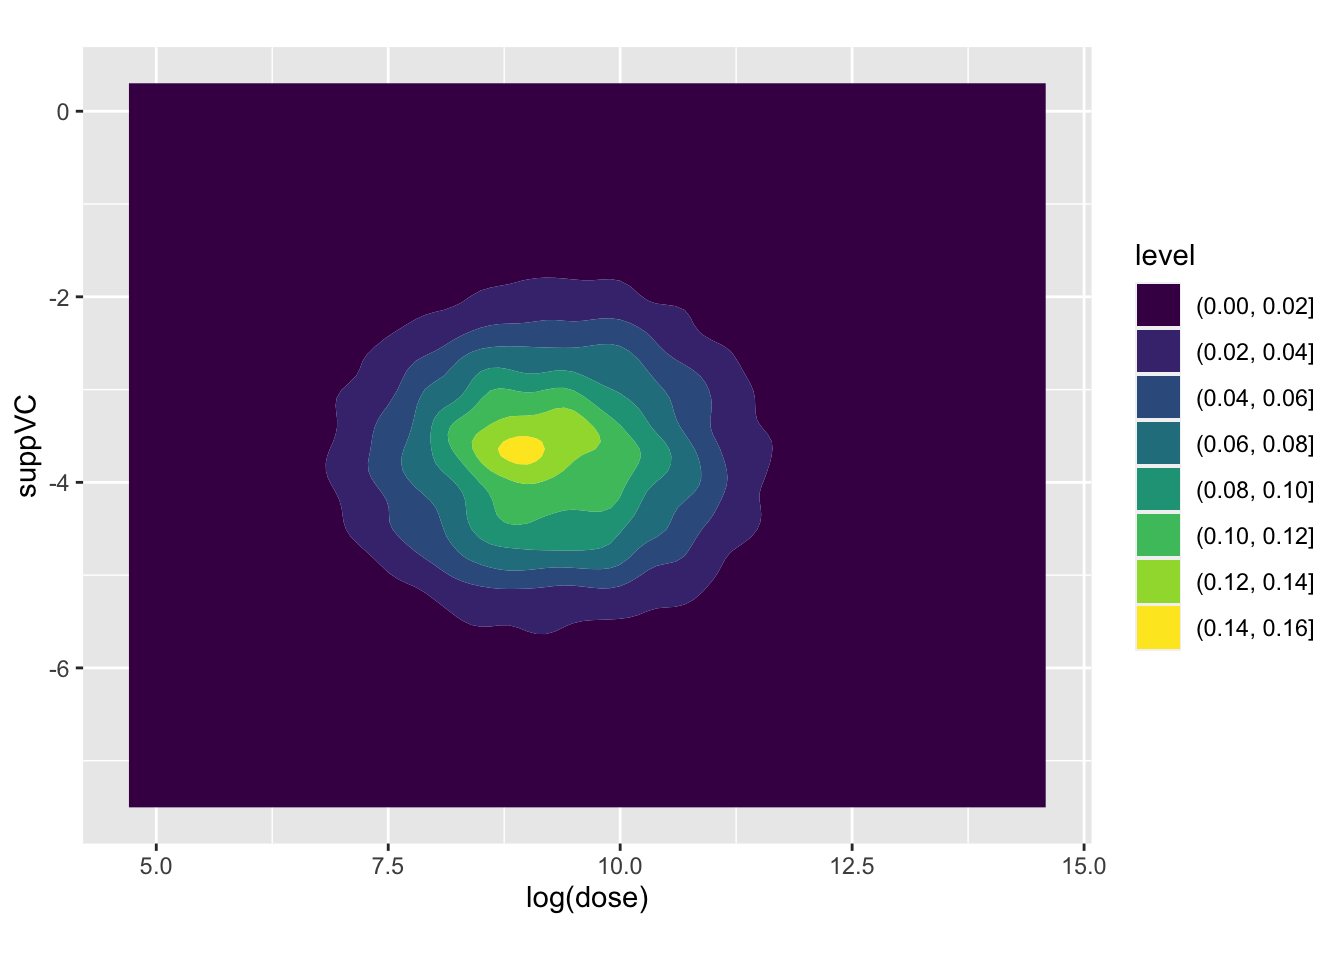
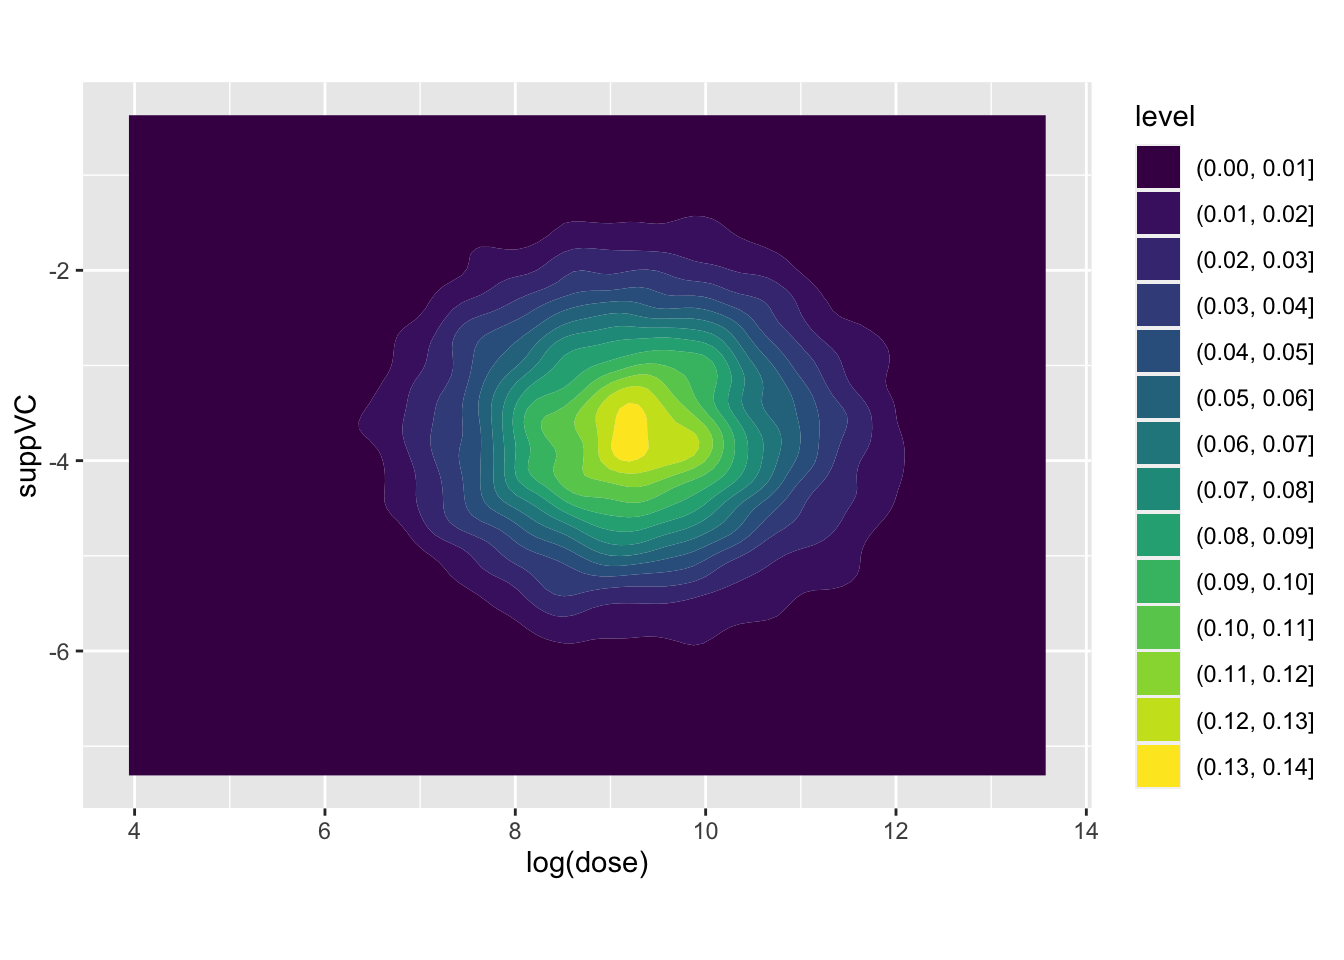
Built site for gh-pages

diff --git a/posts/glms/lms-are-glms-part-12/index.html b/posts/glms/lms-are-glms-part-12/index.html
@@ -430,12 +430,12 @@ Y_i \sim Norm(\theta_i, \sigma^2)
 </details>
 <div class="cell-output cell-output-stdout">
 <pre><code>     (Intercept) log(dose)    suppVC log(dose):suppVC
-[1,]    20.68855  8.918649 -2.791572         4.085721
-[2,]    21.03584  9.087500 -5.498812         3.944559
-[3,]    21.58485 11.707897 -6.394050         1.234645
-[4,]    20.54774  8.023190 -2.992465         4.354103
-[5,]    21.08885  9.010550 -4.647332         4.808531
-[6,]    21.25794  9.958011 -4.839740         2.408021</code></pre>
+[1,]    20.87538  9.689866 -2.836542         1.723545
+[2,]    19.43247  8.859462 -2.908695         4.902105
+[3,]    20.04414 10.951369 -2.337728         1.553765
+[4,]    20.08595  9.444338 -3.747288         4.100071
+[5,]    20.38512  7.122832 -2.729296         4.390524
+[6,]    20.26225 10.424484 -2.907097         1.458138</code></pre>
 </div>
 </div>
 <p>Let’s first look at each of these parameters individually:</p>
@@ -587,7 +587,7 @@ Y_i \sim Norm(\theta_i, \sigma^2)
 <span id="cb19-10"><a href="#cb19-10" aria-hidden="true" tabindex="-1"></a><span class="fu">head</span>(predictions_ev)</span></code><button title="Copy to Clipboard" class="code-copy-button"><i class="bi"></i></button></pre></div>
 </details>
 <div class="cell-output cell-output-stdout">
-<pre><code>[1] 22.67869 23.06366 24.19739 22.33806 23.09949 23.48001</code></pre>
+<pre><code>[1] 23.03761 21.40940 22.48786 22.19340 21.97454 22.58840</code></pre>
 </div>
 </div>
 <p>Let’s now get a 95% credible interval:</p>
@@ -598,7 +598,7 @@ Y_i \sim Norm(\theta_i, \sigma^2)
 </details>
 <div class="cell-output cell-output-stdout">
 <pre><code>    2.5%      50%    97.5% 
-21.27208 22.72799 24.16366 </code></pre>
+21.31398 22.71939 24.14458 </code></pre>
 </div>
 </div>
 <p>So, the 95% interval for the expected value is between <code>21.31</code> and <code>24.14</code>, with a middle (median) estimate of <code>22.73</code>.<a href="#fn1" class="footnote-ref" id="fnref1" role="doc-noteref"><sup>1</sup></a> Let’s check this against estimates from the <code>predict()</code> function:</p>
@@ -630,7 +630,7 @@ Y_i \sim Norm(\theta_i, \sigma^2)
 <span id="cb25-8"><a href="#cb25-8" aria-hidden="true" tabindex="-1"></a><span class="fu">head</span>(predictions_pv)</span></code><button title="Copy to Clipboard" class="code-copy-button"><i class="bi"></i></button></pre></div>
 </details>
 <div class="cell-output cell-output-stdout">
-<pre><code>[1] 22.56073 25.32326 22.67873 18.21301 19.14766 23.85349</code></pre>
+<pre><code>[1] 25.66925 28.20725 28.10618 18.29734 22.02755 24.62414</code></pre>
 </div>
 </div>
 <p>Let’s get the 95% interval from the above using quantile</p>
@@ -641,7 +641,7 @@ Y_i \sim Norm(\theta_i, \sigma^2)
 </details>
 <div class="cell-output cell-output-stdout">
 <pre><code>    2.5%      50%    97.5% 
-15.37372 22.76655 30.07494 </code></pre>
+15.35227 22.72828 30.31997 </code></pre>
 </div>
 </div>
 <p>As expected, the interval is now much wider, with a 95% interval from <code>15.34</code> to <code>30.11</code>. The central estimate should in theory, with an infinite number of runs, be the same, however because of random variation it will never be <em>exactly</em> the same to an arbitrary number of decimal places. In this case, the middle estimate is <code>22.75</code>, not identical to the central estimate from the expected values distribution of <code>22.72</code>. The number of simulations can <em>always</em> be increased to produce greater precision if needed.</p>
@@ -703,23 +703,75 @@ Y_i \sim Norm(\theta_i, \sigma^2)
 <pre><code># A tibble: 10,000 × 3
       x0    x1    fd
    &lt;dbl&gt; &lt;dbl&gt; &lt;dbl&gt;
- 1  22.7  20.8 -1.88
- 2  23.1  18.4 -4.62
- 3  24.2  18.1 -6.12
- 4  22.3  20.3 -2.02
- 5  23.1  19.5 -3.57
- 6  23.5  19.2 -4.30
- 7  22.5  20.0 -2.53
- 8  23.0  19.9 -3.09
- 9  22.2  19.6 -2.62
-10  22.2  21.0 -1.18
+ 1  23.0  20.6 -2.45
+ 2  21.4  19.6 -1.81
+ 3  22.5  20.5 -1.99
+ 4  22.2  19.4 -2.83
+ 5  22.0  20.2 -1.75
+ 6  22.6  20.0 -2.58
+ 7  23.8  19.1 -4.74
+ 8  23.1  19.8 -3.32
+ 9  22.6  20.2 -2.40
+10  22.8  20.6 -2.21
 # ℹ 9,990 more rows</code></pre>
 </div>
 </div>
-
-
-
+<p>Let’s look at the distribution of both scenarios individually:</p>
+<div class="cell">
+<details>
+<summary>Code</summary>
+<div class="sourceCode cell-code" id="cb33"><pre class="sourceCode r code-with-copy"><code class="sourceCode r"><span id="cb33-1"><a href="#cb33-1" aria-hidden="true" tabindex="-1"></a>predictions_df <span class="sc">|&gt;</span></span>
+<span id="cb33-2"><a href="#cb33-2" aria-hidden="true" tabindex="-1"></a>    <span class="fu">pivot_longer</span>(<span class="fu">everything</span>(), <span class="at">names_to =</span> <span class="st">"scenario"</span>, <span class="at">values_to =</span> <span class="st">"estimate"</span>) <span class="sc">|&gt;</span></span>
+<span id="cb33-3"><a href="#cb33-3" aria-hidden="true" tabindex="-1"></a>    <span class="fu">filter</span>(scenario <span class="sc">!=</span> <span class="st">"fd"</span>) <span class="sc">|&gt;</span></span>
+<span id="cb33-4"><a href="#cb33-4" aria-hidden="true" tabindex="-1"></a>    <span class="fu">ggplot</span>(<span class="fu">aes</span>(<span class="at">x =</span> estimate)) <span class="sc">+</span> </span>
+<span id="cb33-5"><a href="#cb33-5" aria-hidden="true" tabindex="-1"></a>    <span class="fu">facet_wrap</span>(<span class="sc">~</span>scenario, <span class="at">ncol =</span> <span class="dv">1</span>) <span class="sc">+</span> </span>
+<span id="cb33-6"><a href="#cb33-6" aria-hidden="true" tabindex="-1"></a>    <span class="fu">geom_histogram</span>(<span class="at">bins =</span> <span class="dv">100</span>)</span></code><button title="Copy to Clipboard" class="code-copy-button"><i class="bi"></i></button></pre></div>
+</details>
+<div class="cell-output-display">
+<p><img src="index_files/figure-html/unnamed-chunk-19-1.png" class="img-fluid" width="672"></p>
+</div>
+</div>
+<p>And the distribution of the pairwise differences between them:</p>
+<div class="cell">
+<details>
+<summary>Code</summary>
+<div class="sourceCode cell-code" id="cb34"><pre class="sourceCode r code-with-copy"><code class="sourceCode r"><span id="cb34-1"><a href="#cb34-1" aria-hidden="true" tabindex="-1"></a>predictions_df <span class="sc">|&gt;</span></span>
+<span id="cb34-2"><a href="#cb34-2" aria-hidden="true" tabindex="-1"></a>    <span class="fu">pivot_longer</span>(<span class="fu">everything</span>(), <span class="at">names_to =</span> <span class="st">"scenario"</span>, <span class="at">values_to =</span> <span class="st">"estimate"</span>) <span class="sc">|&gt;</span></span>
+<span id="cb34-3"><a href="#cb34-3" aria-hidden="true" tabindex="-1"></a>    <span class="fu">filter</span>(scenario <span class="sc">==</span> <span class="st">"fd"</span>) <span class="sc">|&gt;</span></span>
+<span id="cb34-4"><a href="#cb34-4" aria-hidden="true" tabindex="-1"></a>    <span class="fu">ggplot</span>(<span class="fu">aes</span>(<span class="at">x =</span> estimate)) <span class="sc">+</span> </span>
+<span id="cb34-5"><a href="#cb34-5" aria-hidden="true" tabindex="-1"></a>    <span class="fu">geom_histogram</span>(<span class="at">bins =</span> <span class="dv">100</span>) <span class="sc">+</span> </span>
+<span id="cb34-6"><a href="#cb34-6" aria-hidden="true" tabindex="-1"></a>    <span class="fu">geom_vline</span>(<span class="at">xintercept =</span> <span class="dv">0</span>)</span></code><button title="Copy to Clipboard" class="code-copy-button"><i class="bi"></i></button></pre></div>
+</details>
+<div class="cell-output-display">
+<p><img src="index_files/figure-html/unnamed-chunk-20-1.png" class="img-fluid" width="672"></p>
+</div>
+</div>
+<p>It’s this last distribution which shows our first differences, i.e.&nbsp;our answer, hedged with an appropriate dose of uncertainty, to the specific question shown above. We can get a 95% interval of the first difference as follows:</p>
+<div class="cell">
+<details>
+<summary>Code</summary>
+<div class="sourceCode cell-code" id="cb35"><pre class="sourceCode r code-with-copy"><code class="sourceCode r"><span id="cb35-1"><a href="#cb35-1" aria-hidden="true" tabindex="-1"></a>predictions_df <span class="sc">|&gt;</span></span>
+<span id="cb35-2"><a href="#cb35-2" aria-hidden="true" tabindex="-1"></a>    <span class="fu">pivot_longer</span>(<span class="fu">everything</span>(), <span class="at">names_to =</span> <span class="st">"scenario"</span>, <span class="at">values_to =</span> <span class="st">"estimate"</span>) <span class="sc">|&gt;</span></span>
+<span id="cb35-3"><a href="#cb35-3" aria-hidden="true" tabindex="-1"></a>    <span class="fu">filter</span>(scenario <span class="sc">==</span> <span class="st">"fd"</span>) <span class="sc">|&gt;</span> </span>
+<span id="cb35-4"><a href="#cb35-4" aria-hidden="true" tabindex="-1"></a>    <span class="fu">pull</span>(<span class="st">'estimate'</span>) <span class="sc">|&gt;</span></span>
+<span id="cb35-5"><a href="#cb35-5" aria-hidden="true" tabindex="-1"></a>    <span class="fu">quantile</span>(<span class="at">probs =</span> <span class="fu">c</span>(<span class="fl">0.025</span>, <span class="fl">0.500</span>, <span class="fl">0.975</span>))</span></code><button title="Copy to Clipboard" class="code-copy-button"><i class="bi"></i></button></pre></div>
+</details>
+<div class="cell-output cell-output-stdout">
+<pre><code>      2.5%        50%      97.5% 
+-4.8391048 -2.8440436 -0.8101429 </code></pre>
+</div>
+</div>
+<p>So, 95% of estimates of the first difference are between <code>-4.85</code> and <code>-0.81</code>, with the middle of this distribution (on this occasion) being <code>-2.83</code>.</p>
+<p>Unlike with the expected values and predicted values, the <code>predict()</code> function does not return first differences with honest uncertainty in this way. What we have above is something new.</p>
 </section>
+</section>
+<section id="summary" class="level2">
+<h2 class="anchored" data-anchor-id="summary">Summary</h2>
+<p>In this post we’ve finally combined all the learning we’ve developed over the 11 previous posts to answer three specific ‘what if?’ questions: one on expected values, one on predicted values, and one on first differences. These are what <span class="citation" data-cites="KinTomWit00">King, Tomz, and Wittenberg (<a href="#ref-KinTomWit00" role="doc-biblioref">2000</a>)</span> refer to as <em>quantities of interest</em>, and I hope you agree these are more organic and reasonable types of question to ask of data and statistical models than simply looking at coefficients and p-values and reporting which ones are ‘statistically significant’.</p>
+<p>If you’ve been able to follow everything in these posts, and can generalise the approach shown above to other types of statistical model, then <strong>congratulations!</strong> You’ve learned the framework for answering meaningful questions using statistical models which is at the heart of <a href="https://projects.iq.harvard.edu/gov2001/home">one of the toughest methods courses for social scientists offered by one of the most prestigious universities in the world</a>.<a href="#fn3" class="footnote-ref" id="fnref3" role="doc-noteref"><sup>3</sup></a></p>
+
+
+
 </section>
 
 
@@ -732,6 +784,7 @@ King, Gary, Michael Tomz, and Jason Wittenberg. 2000. <span>“Making the Most o
 <ol>
 <li id="fn1"><p>These are the values produced the first time I ran the simulation. They are likely to be a little different each time, so may not be identical to the number of decimal places reported when I next render this document. These estimates are <em>approximations</em>.<a href="#fnref1" class="footnote-back" role="doc-backlink">↩</a></p></li>
 <li id="fn2"><p>Because the simulation approach relies on random numbers, the draws will never be the same unless the same random number seed is using using <code>set.seed()</code>. However with more simulations, using the <code>n</code> parameter from <code>mvrnorm</code>, the distributions of estimates should become ever closer to each other.<a href="#fnref2" class="footnote-back" role="doc-backlink">↩</a></p></li>
+<li id="fn3"><p>I took this course via the Harvard extension school while doing my PhD in York quite a few years ago. I took it as a non-credit option - as what’s the value of a fraction of a degree when I had two already? - but was told by the tutors that I’d completed it to a ‘Grade A-’ level. So, not perfect, but good enough…<a href="#fnref3" class="footnote-back" role="doc-backlink">↩</a></p></li>
 </ol>
 </section></div></main> <!-- /main -->
 <script id="quarto-html-after-body" type="application/javascript">
